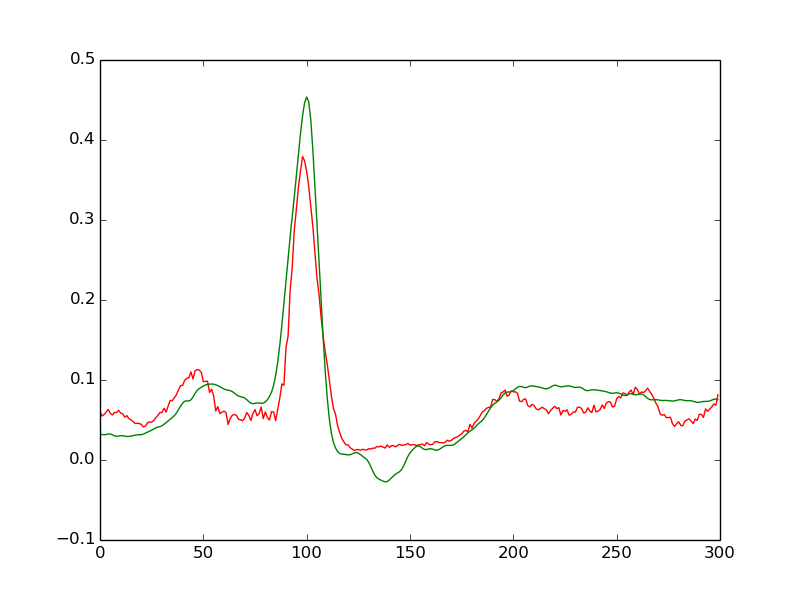
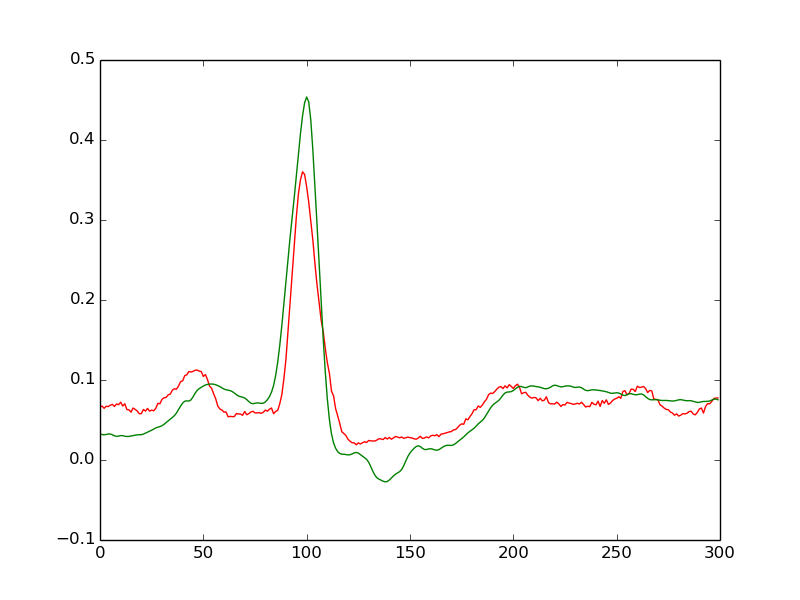
hidden 25

diff --git a/dA.py b/dA.py
@@ -327,7 +327,7 @@ def test_dA(learning_rate=0.1, training_epochs=200,
         theano_rng=theano_rng,
         input=x,
         n_visible=300,
-        n_hidden=400
+        n_hidden=25
     ) 
 
     cost, updates = da.get_cost_updates(
